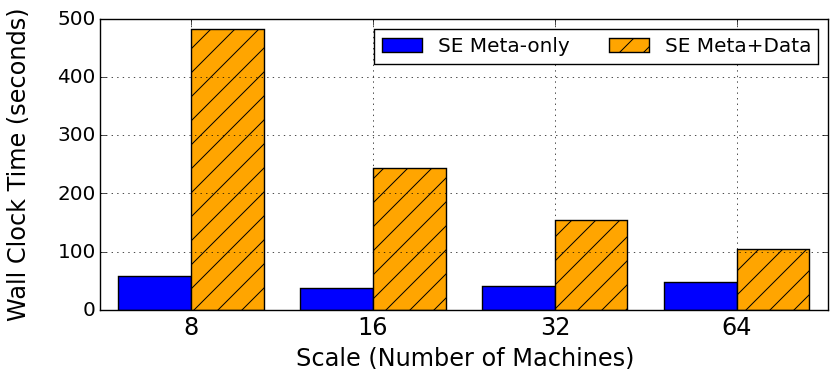
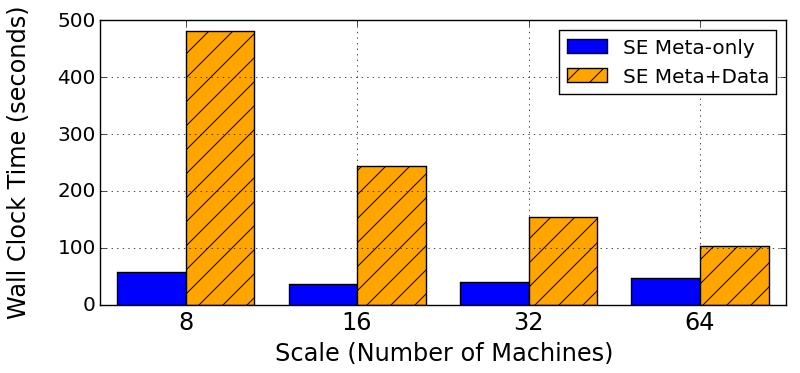
update figures

diff --git a/Lineage.tex b/Lineage.tex
@@ -1121,7 +1121,7 @@ While the Meta+Data setting scales better due to its nature of data intensivenes
 \begin{figure}[t]
 \begin{center}
     \includegraphics[width=85mm]{pictures/Overhead-Time-SE}
-\caption {Isolated Lineage Capturing Wall Clock Time Overhead of the SourceExtractor Pipeline
+\caption {Isolated Lineage Capturing Wall Clock Time of the SourceExtractor Pipeline
     \label{fig:SE-overhead}
 }
 \end{center}
@@ -1151,7 +1151,7 @@ Table~\ref{tb:typequery-stats} shows the metadata settings of the input and outp
 \begin{figure}[t]
 \begin{center}
     \includegraphics[width=85mm]{pictures/TypeQuery-Time}
-\caption {Query time for the seven lineage types (in log scale).
+\caption {Query latency for the seven lineage types (in log scale).
     \label{fig:typequery}
 }
 \end{center}

diff --git a/pictures/Overhead-Time-SE.py b/pictures/Overhead-Time-SE.py
@@ -26,7 +26,7 @@ ax.set_xlabel('Scale (Number of Machines)', size='x-large')
 ax.set_ylabel('Wall Clock Time (seconds)', size='x-large', labelpad=20)
 ax.set_xticks(ind+0.4)
 ax.set_xticklabels( ('8', '16', '32', '64'), size='x-large') 
-ax.legend( (rects1[0], rects2[0]), ('SE Meta-only', 'SE Meta+Data'), loc='best', ncol=2)
+ax.legend( (rects1[0], rects2[0]), ('SE Meta-only', 'SE Meta+Data'), loc='best')
 ax.set_yticklabels((0, 100, 200, 300, 400, 500), size='large')
 
 
